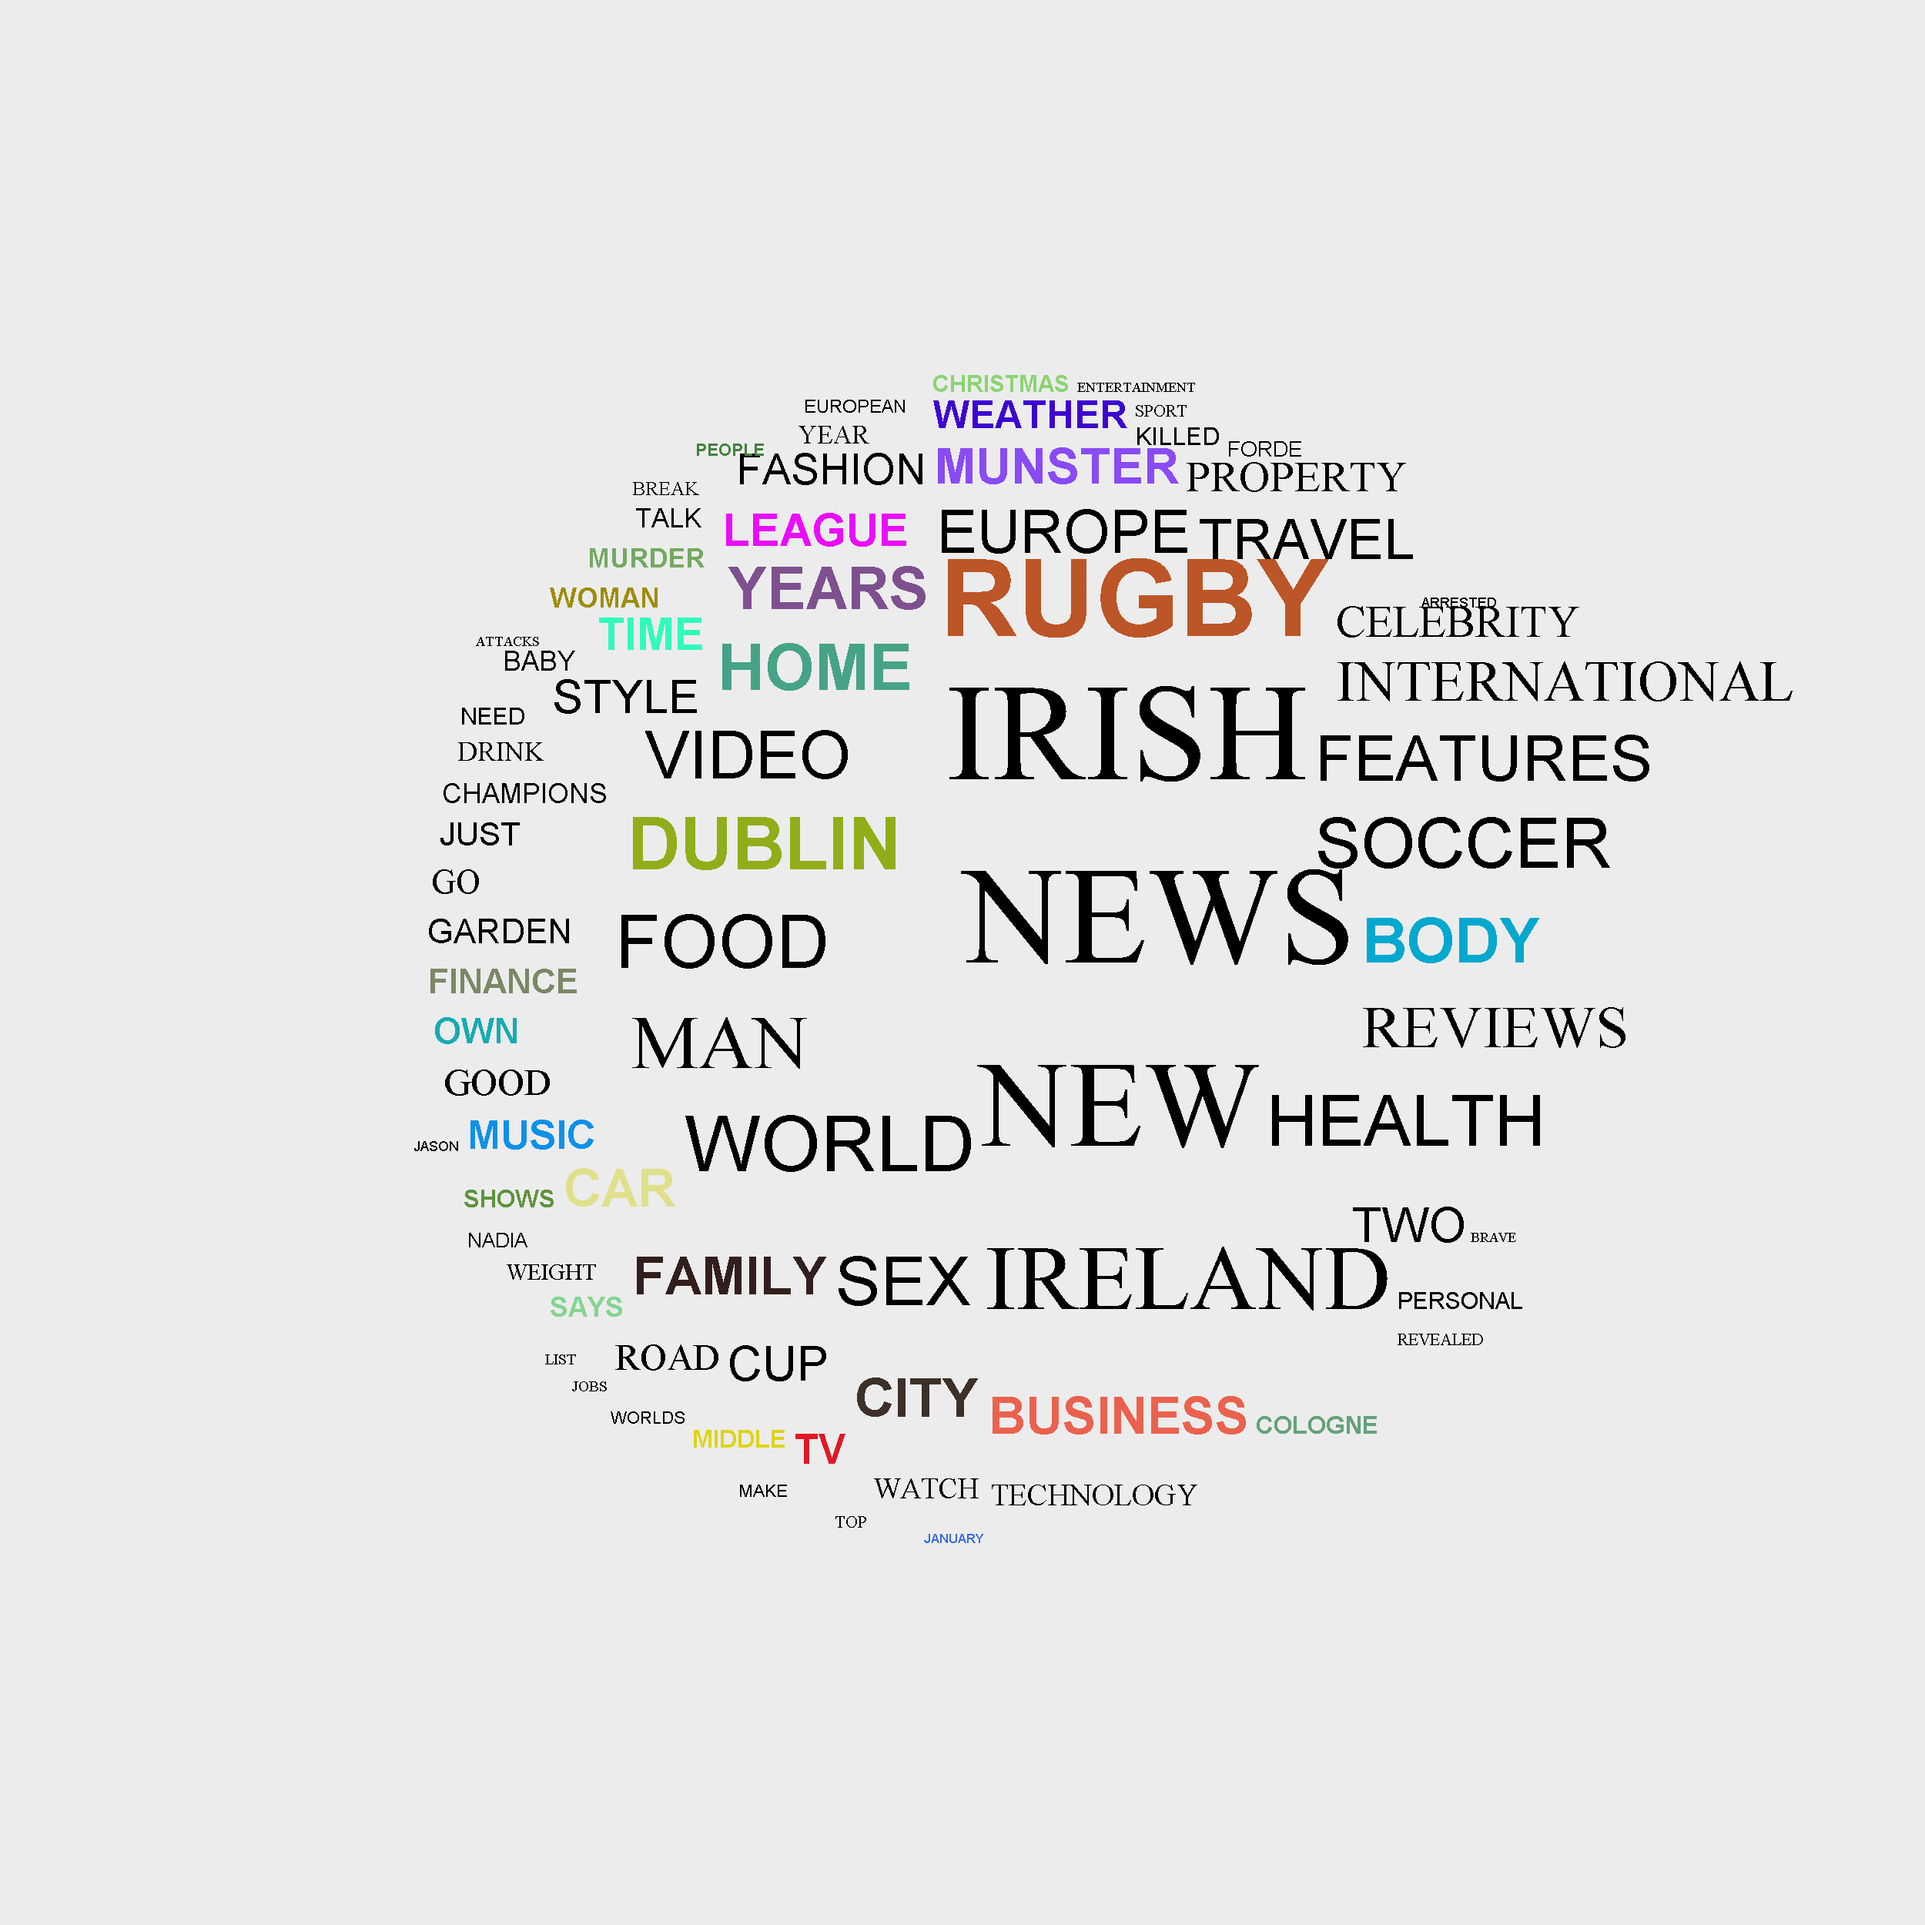
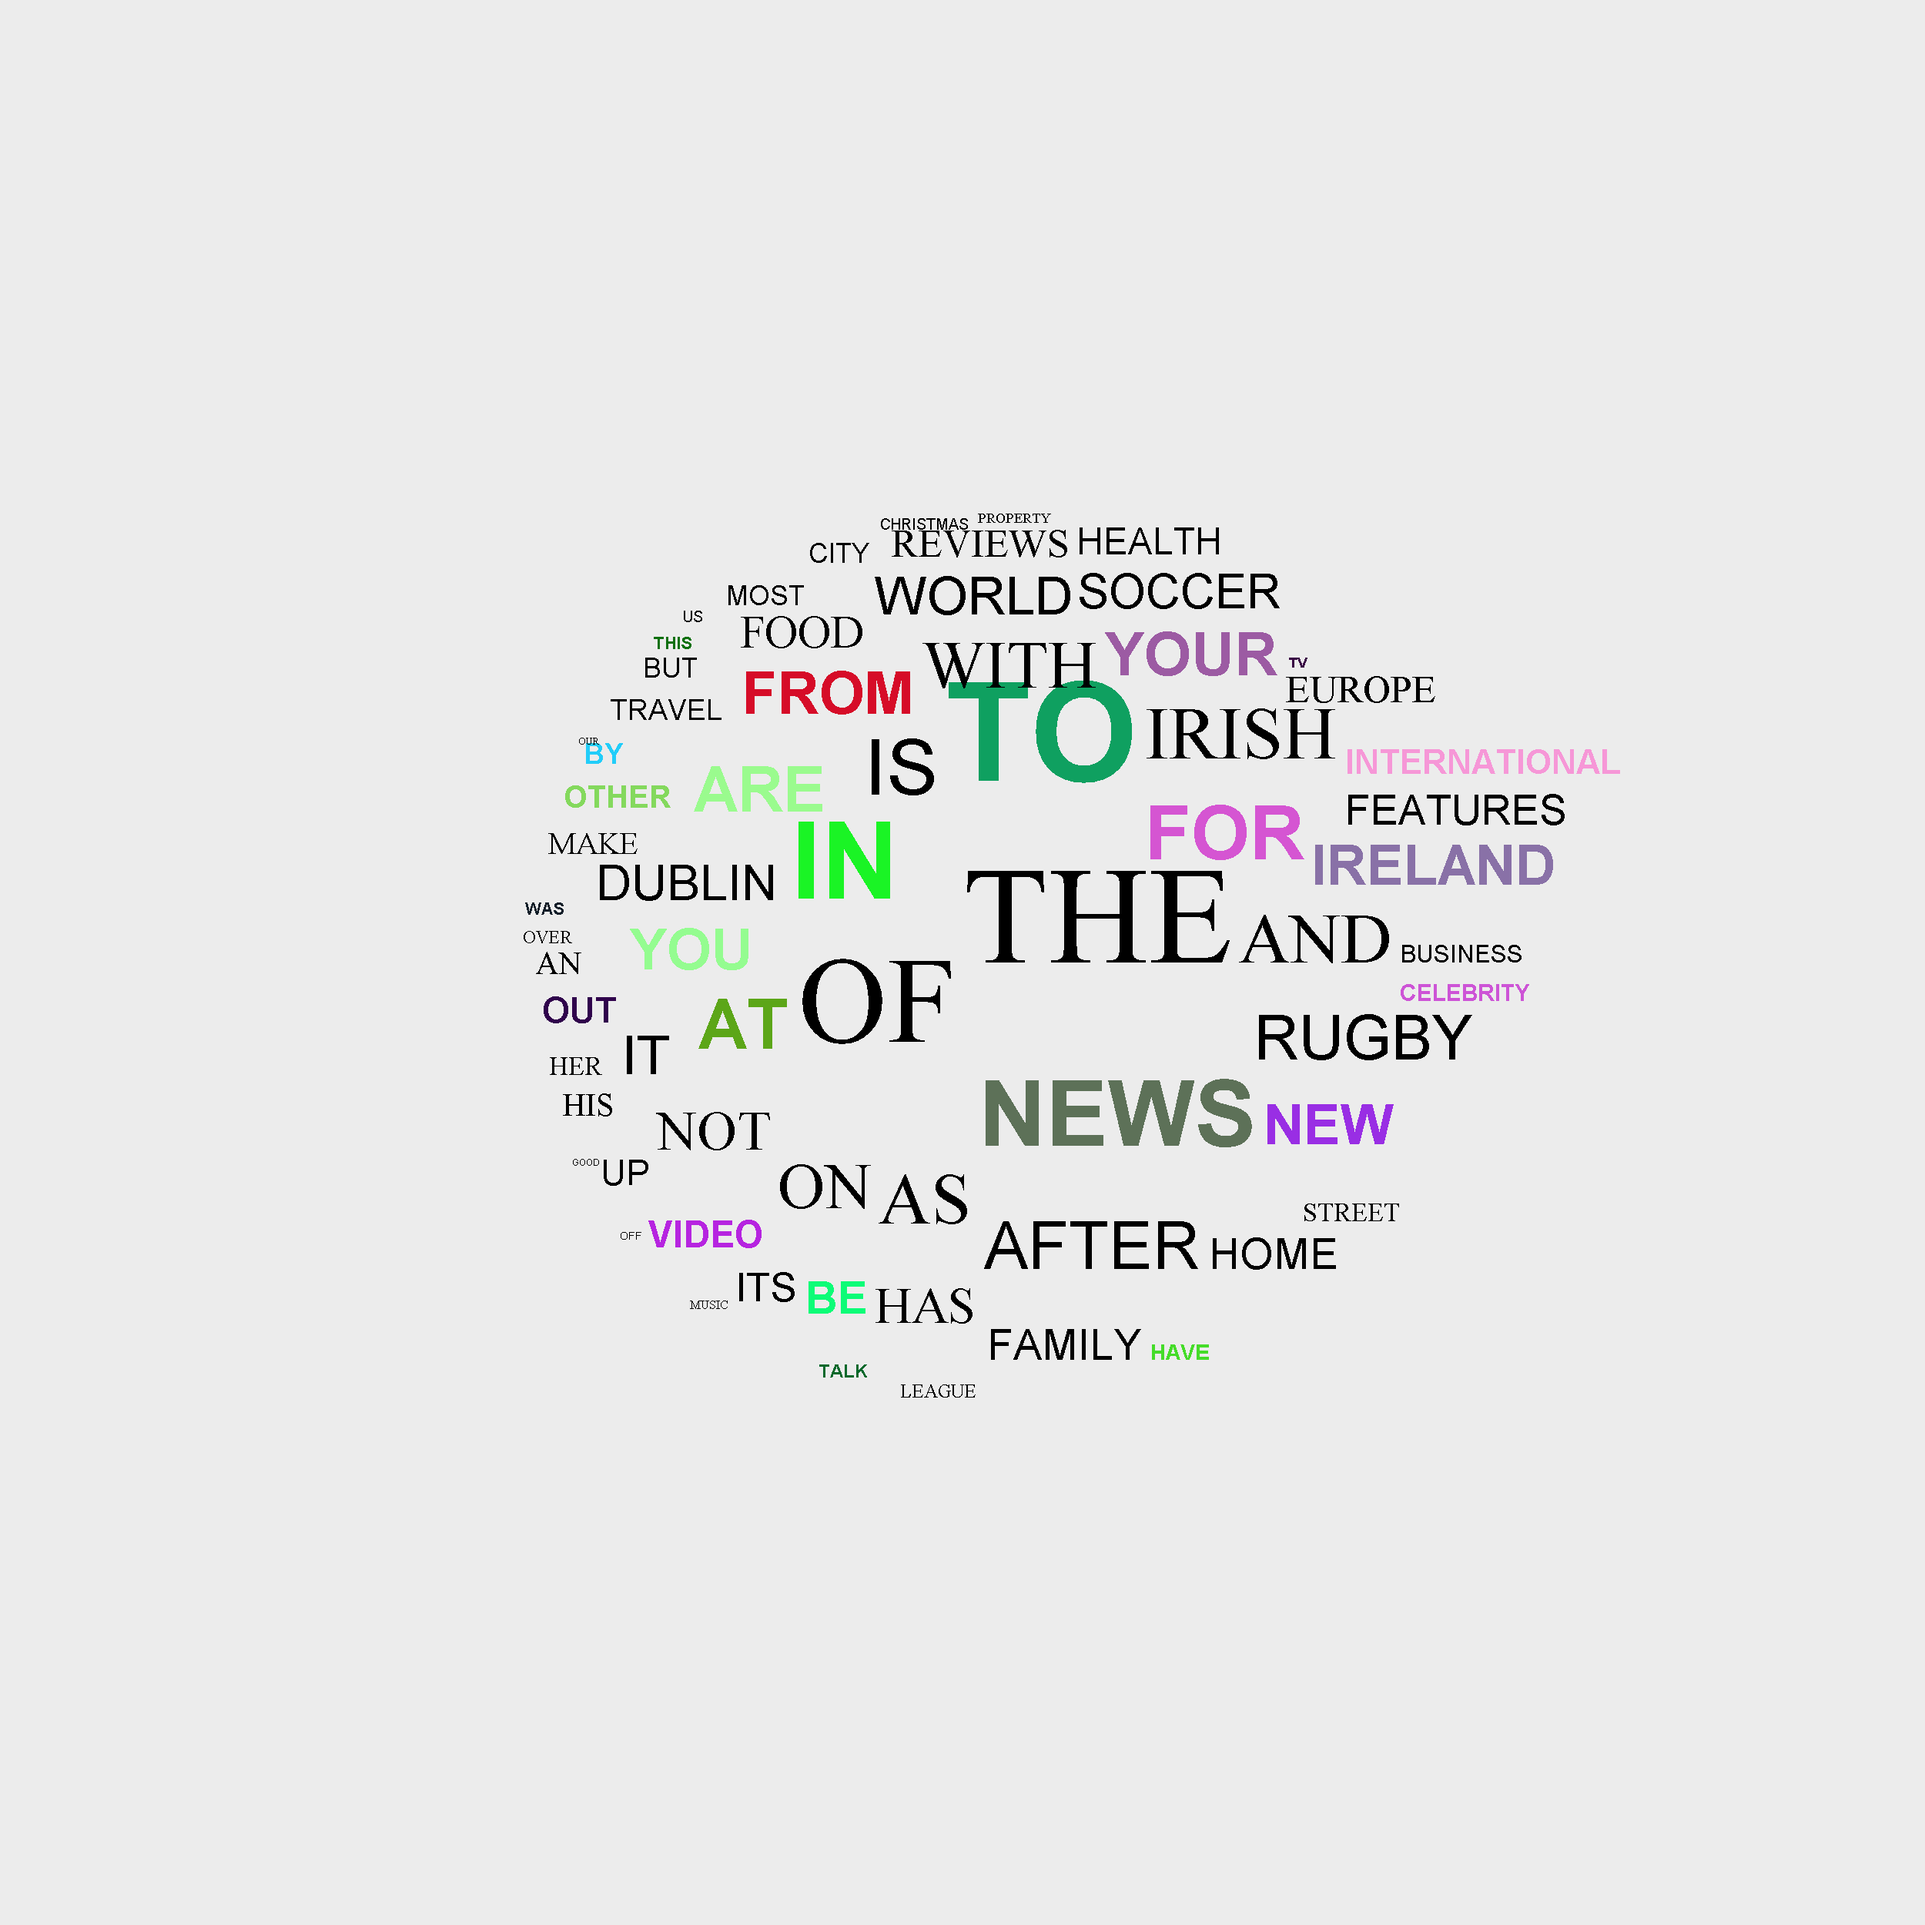
Alot of fixes to make jar files read files internally...

Changed region(s): [[0.2184, 0.1872, 0.936, 0.7488], [0.3744, 0.7488, 0.4368, 0.78]]

diff --git a/src/ie/gmit/sw/Importer.java b/src/ie/gmit/sw/Importer.java
@@ -2,8 +2,11 @@ package ie.gmit.sw;
 
 import java.io.BufferedReader;
 import java.io.File;
+import java.io.FileNotFoundException;
 import java.io.FileReader;
 import java.io.IOException;
+import java.io.InputStreamReader;
+import java.io.Reader;
 import java.util.HashSet;
 import java.util.List;
 
@@ -15,6 +18,7 @@ import org.jsoup.select.Elements;
 
 import ie.gmit.sw.ui.UserUIDialog;
 import ie.gmit.sw.ui.UserUIMessageType;
+import jdk.nashorn.internal.objects.Global;
 
 /**
  * This class is manages the creation of a list of ordered words.
@@ -80,16 +84,39 @@ public class Importer implements Parserable
 		System.out.println("--- Blacklist File ---");
 		System.out.println("\nTrying to import blacklist file: " + "\"" + fileUrl + "\"");
 		
-		blacklist = new HashSet<String>();		
+		Reader currentReader = null;
+		blacklist = new HashSet<String>();	
 		
-		if(!(isFile(fileUrl)))
-		{
-			fileUrl = Globals.getInstance().getBackupStopwords();
-			
-			System.out.println("Using the internal backup file: " + "\"" + fileUrl + "\"\n");
-		}
+    	if(!(Globals.getInstance().getIsDebug()))
+    	{
+    		ClassLoader classLoader = getClass().getClassLoader();
+    		
+        	if(classLoader.getResourceAsStream(fileUrl) != null) 		
+    			currentReader = new InputStreamReader(getClass().getResourceAsStream("/" + fileUrl)); 
+    		else
+    		{
+    			System.out.println("Using the internal backup file: " + "\"" + fileUrl + "\"\n");
+    			currentReader = new InputStreamReader(getClass().getResourceAsStream("/" + Globals.getInstance().getBackupStopwords()));
+    		}
+    	}
+    	else
+    	{
+    		try 
+    		{    			
+				currentReader = new FileReader(fileUrl);
+			}
+    		catch (FileNotFoundException e)
+    		{
+    			if(!(isFile(fileUrl)))
+    			{
+    				fileUrl = Globals.getInstance().getBackupStopwords();
+    				
+    				System.out.println("Using the internal backup file: " + "\"" + fileUrl + "\"\n");
+    			}
+			}
+    	}
 	
-    	try (BufferedReader buffRead = new BufferedReader(new FileReader(fileUrl)))
+    	try (BufferedReader buffRead = new BufferedReader(currentReader))
 		{
     		System.out.println("Read file for blacklist: " + fileUrl);
     		
@@ -130,9 +157,32 @@ public class Importer implements Parserable
 	*/ 	
     private List<String> ReadFile(String fileOrUrl)
     {
-    	System.out.println("Trying to read FILE: " + "\"" + fileOrUrl + "\"\n");
+    	Reader currentReader = null;
     	
-    	try (BufferedReader buffRead = new BufferedReader(new FileReader(fileOrUrl)))
+    	if(!(Globals.getInstance().getIsDebug()))
+    	{
+    		ClassLoader classLoader = getClass().getClassLoader();
+    		
+    		if(classLoader.getResourceAsStream(fileOrUrl) != null) 		
+    			currentReader = new InputStreamReader(getClass().getResourceAsStream("/" + fileOrUrl)); 
+    		else
+    			currentReader = new InputStreamReader(getClass().getResourceAsStream("/" + Globals.getInstance().getBackupStopwords()));
+    	}
+    	else
+    	{
+    		System.out.println("Trying to read FILE: " + "\"" + fileOrUrl + "\"\n");
+    		
+    		try
+    		{
+				currentReader = new FileReader(fileOrUrl);
+			}
+    		catch (FileNotFoundException e) 
+    		{
+				e.printStackTrace();
+			}
+    	}
+    	
+    	try (BufferedReader buffRead = new BufferedReader(currentReader))
 		{
     		System.out.println("Read file: " + fileOrUrl);
     		

diff --git a/src/ie/gmit/sw/Runner.java b/src/ie/gmit/sw/Runner.java
@@ -24,28 +24,28 @@ public class Runner
 			{			
 				if(args[0].equalsIgnoreCase(("gui")))
 				{		
+					Globals.getInstance().setIsGui(true);
 					UserUI projectUI = new UserUI();
 					projectUI.Init(args[1],args[2]);
 					
-					Globals.getInstance().setIsGui(true);
 				}
 				else if(args[0].equalsIgnoreCase(("cmd")))
 				{
 					commandLineText();
+					Globals.getInstance().setIsGui(false);
 					
 					Worker worker = new Worker();
 					worker.doWork(args[1],args[2]);
 					
-					Globals.getInstance().setIsGui(false);
 				}
 				else
 				{
 					commandLineText();
+					Globals.getInstance().setIsGui(false);
 					
 					Worker worker = new Worker();
 					worker.doWork(args[1],args[2]);
 					
-					Globals.getInstance().setIsGui(false);
 				}
 			}
 			else

diff --git a/src/ie/gmit/sw/WordCloud.java b/src/ie/gmit/sw/WordCloud.java
@@ -3,7 +3,6 @@ package ie.gmit.sw;
 import java.awt.Color;
 import java.awt.Font;
 import java.awt.Graphics;
-import java.awt.Image;
 import java.awt.font.FontRenderContext;
 import java.awt.geom.AffineTransform;
 import java.awt.image.BufferedImage;
@@ -54,6 +53,8 @@ public class WordCloud
 		int radius = 0;
 		int lastFrequency = 0;
 		float increment = 0;
+		
+		System.out.println();
 		
 		while(wordCount < Globals.getInstance().getWordLimit() && Globals.getInstance().getFontSize() > Globals.getInstance().getMinFontSize())
 		{
@@ -108,6 +109,8 @@ public class WordCloud
 			}
 										
 			Globals.getInstance().setFontSize(fSize);
+			
+			System.out.println("Printing word: " + word.getText());
 			
 			++wordCount;
 		}		

diff --git a/src/ie/gmit/sw/Globals.java b/src/ie/gmit/sw/Globals.java
@@ -11,7 +11,7 @@ public class Globals
    private static Globals instance = null;
    protected Globals() {}
  
-   private boolean DEBUG = true;
+   private boolean DEBUG = false; // Debug mode represents the code being run from eclipse otherwise its run from jar
    private boolean GUI = false;
    
    private String backUpStopwords = "txt/stopwords.txt";
@@ -19,7 +19,7 @@ public class Globals
    
    private int WordLimit = 80;
    private int fontSize = 180;
-   private int ImageDimension = 2500;
+   private int ImageDimension = 2000;
    private int minFontSize = 10;
 
    /**

diff --git a/src/ie/gmit/sw/WordValueMap.java b/src/ie/gmit/sw/WordValueMap.java
@@ -64,7 +64,7 @@ public class WordValueMap
 	
 		HashMap<String,Integer> temp = new HashMap<String,Integer>(map);
 					
-		int max = map.size();
+		int max = Globals.getInstance().getWordLimit();
 		int count = 0;
 		
 		while(count < max) 
